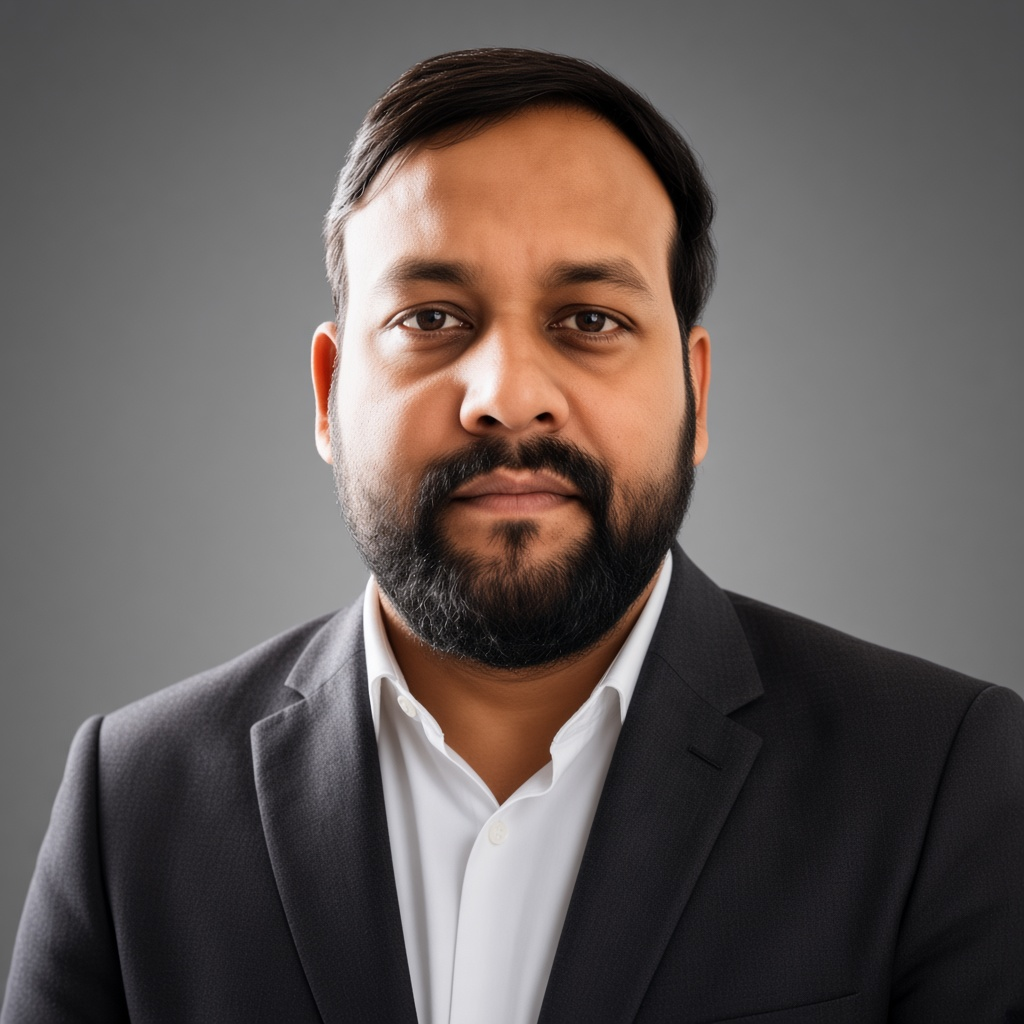
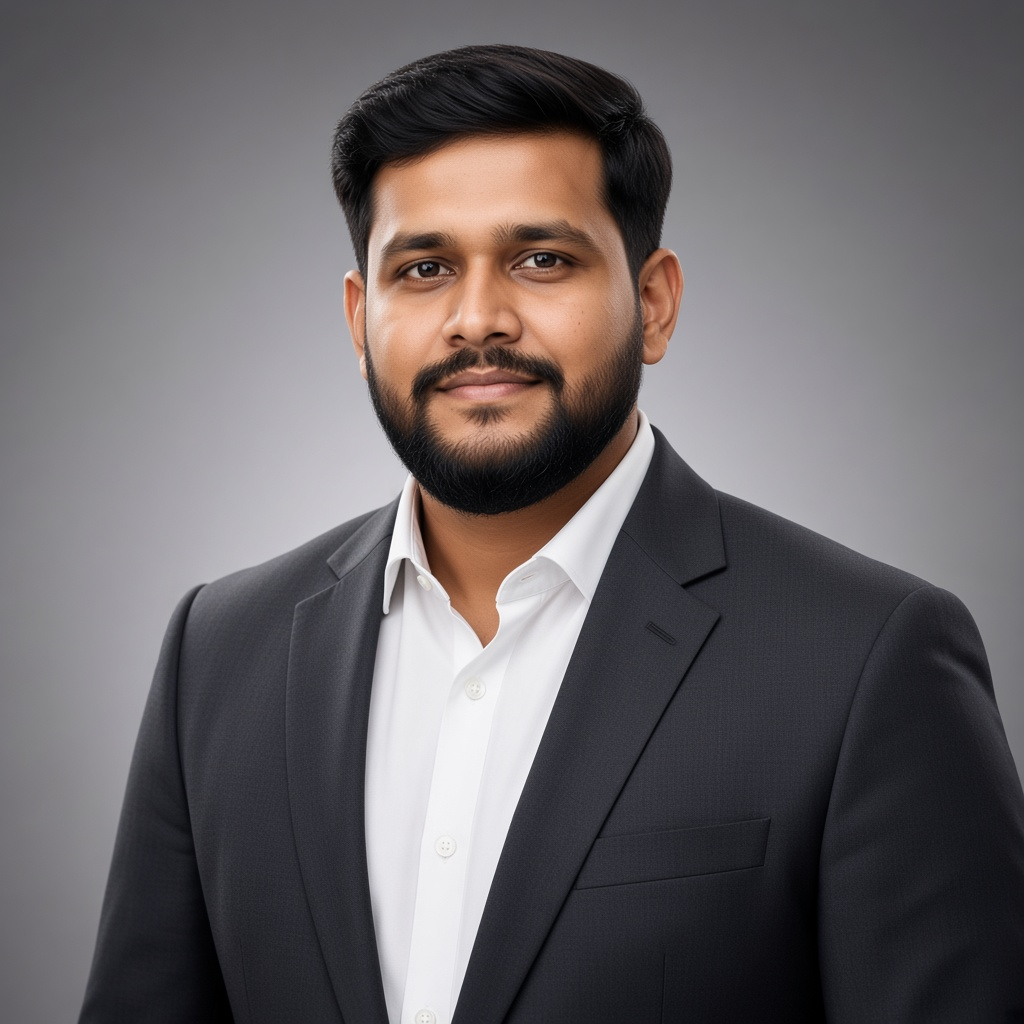
Fix profile photo: Prince AI headshot from real reference

diff --git a/src/index.css b/src/index.css
@@ -407,7 +407,7 @@ main {
   width: 100%;
   height: 100%;
   object-fit: cover;
-  object-position: 50% 22%;
+  object-position: 50% 18%;
   transform: scale(1.02);
   transition: transform 0.35s ease;
 }
